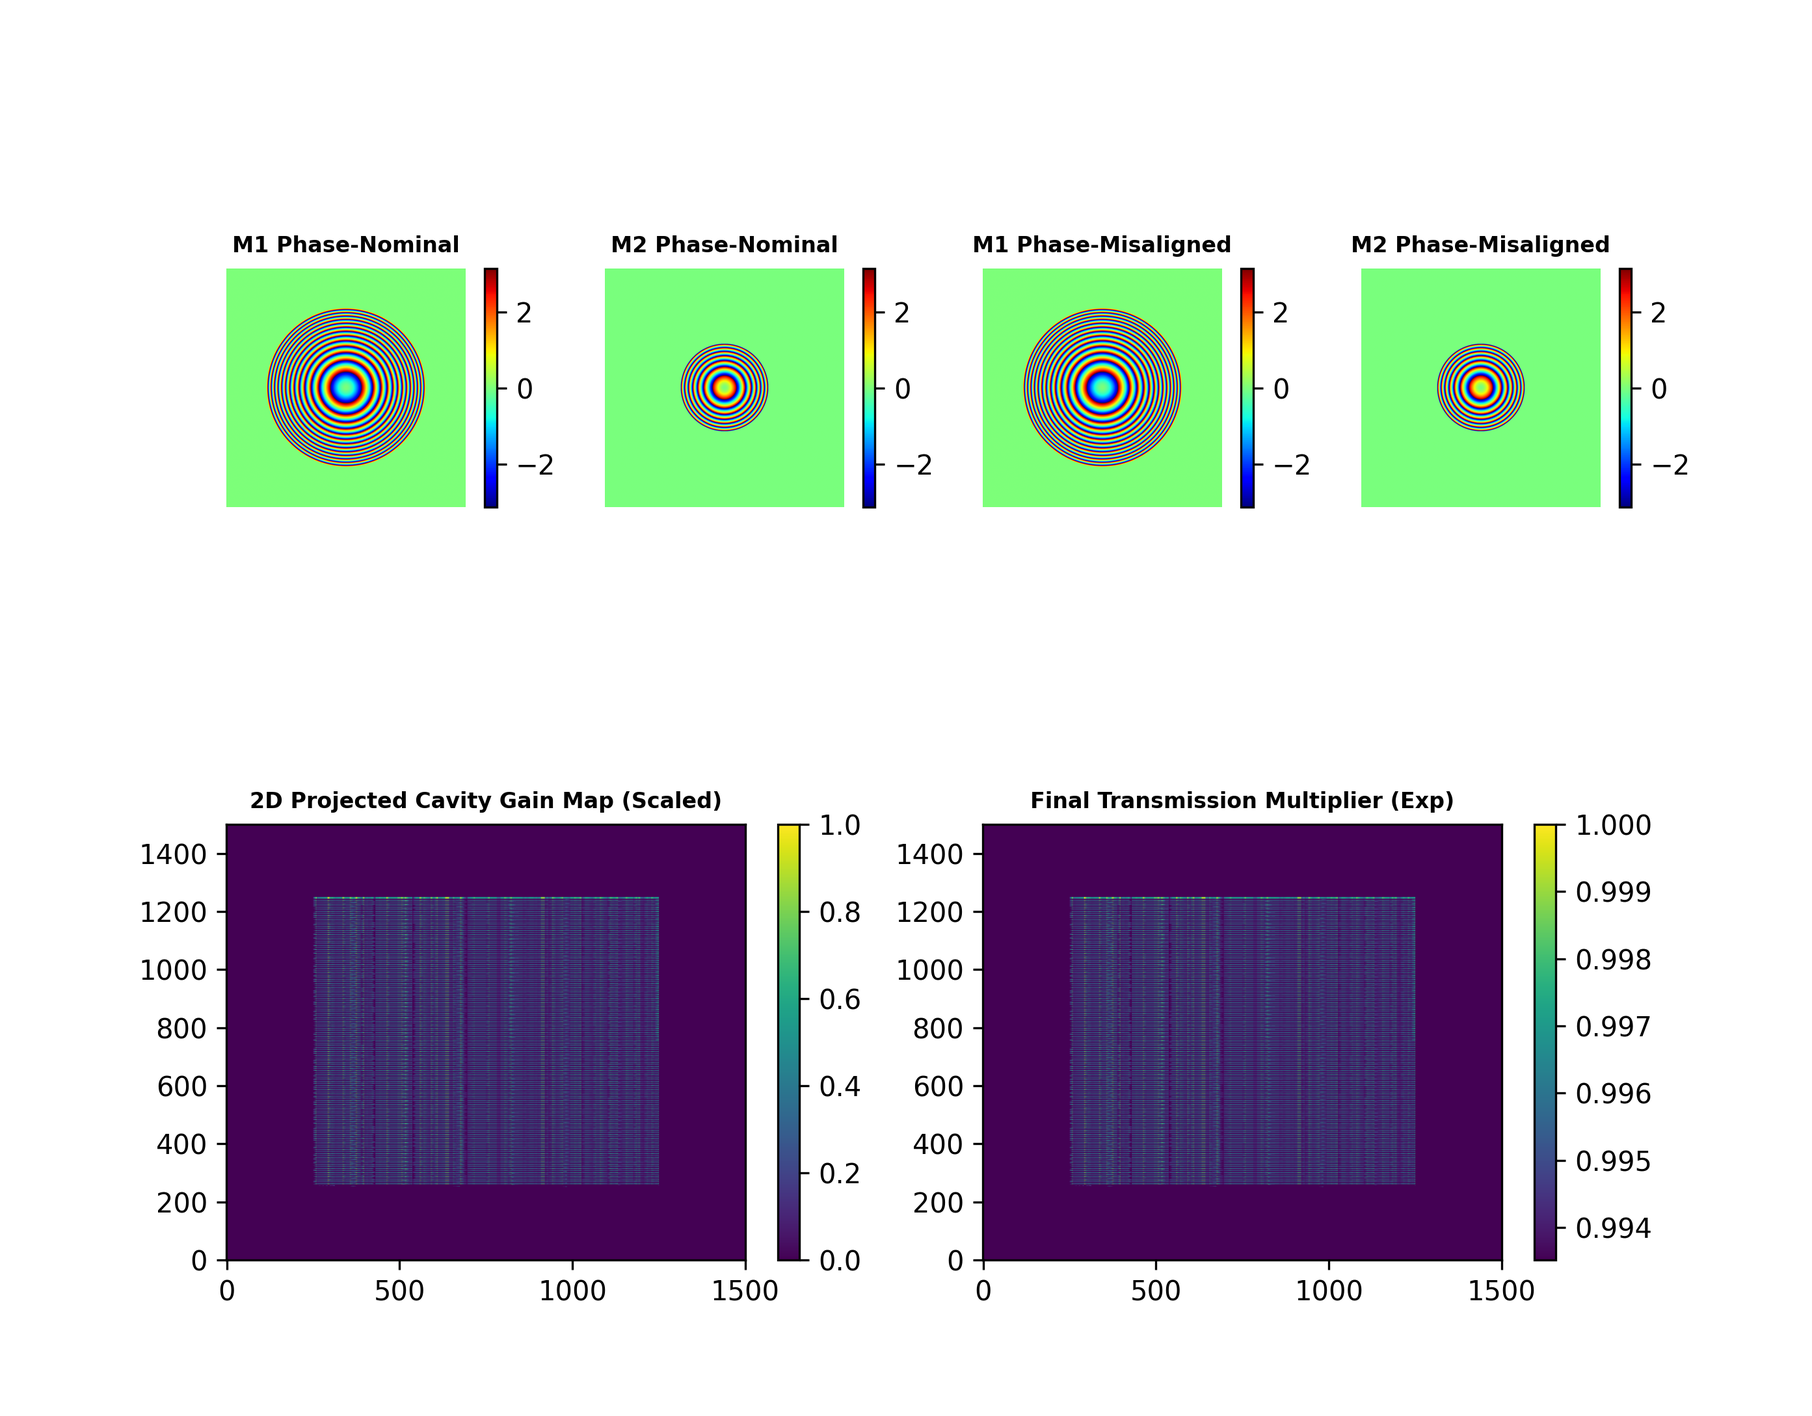
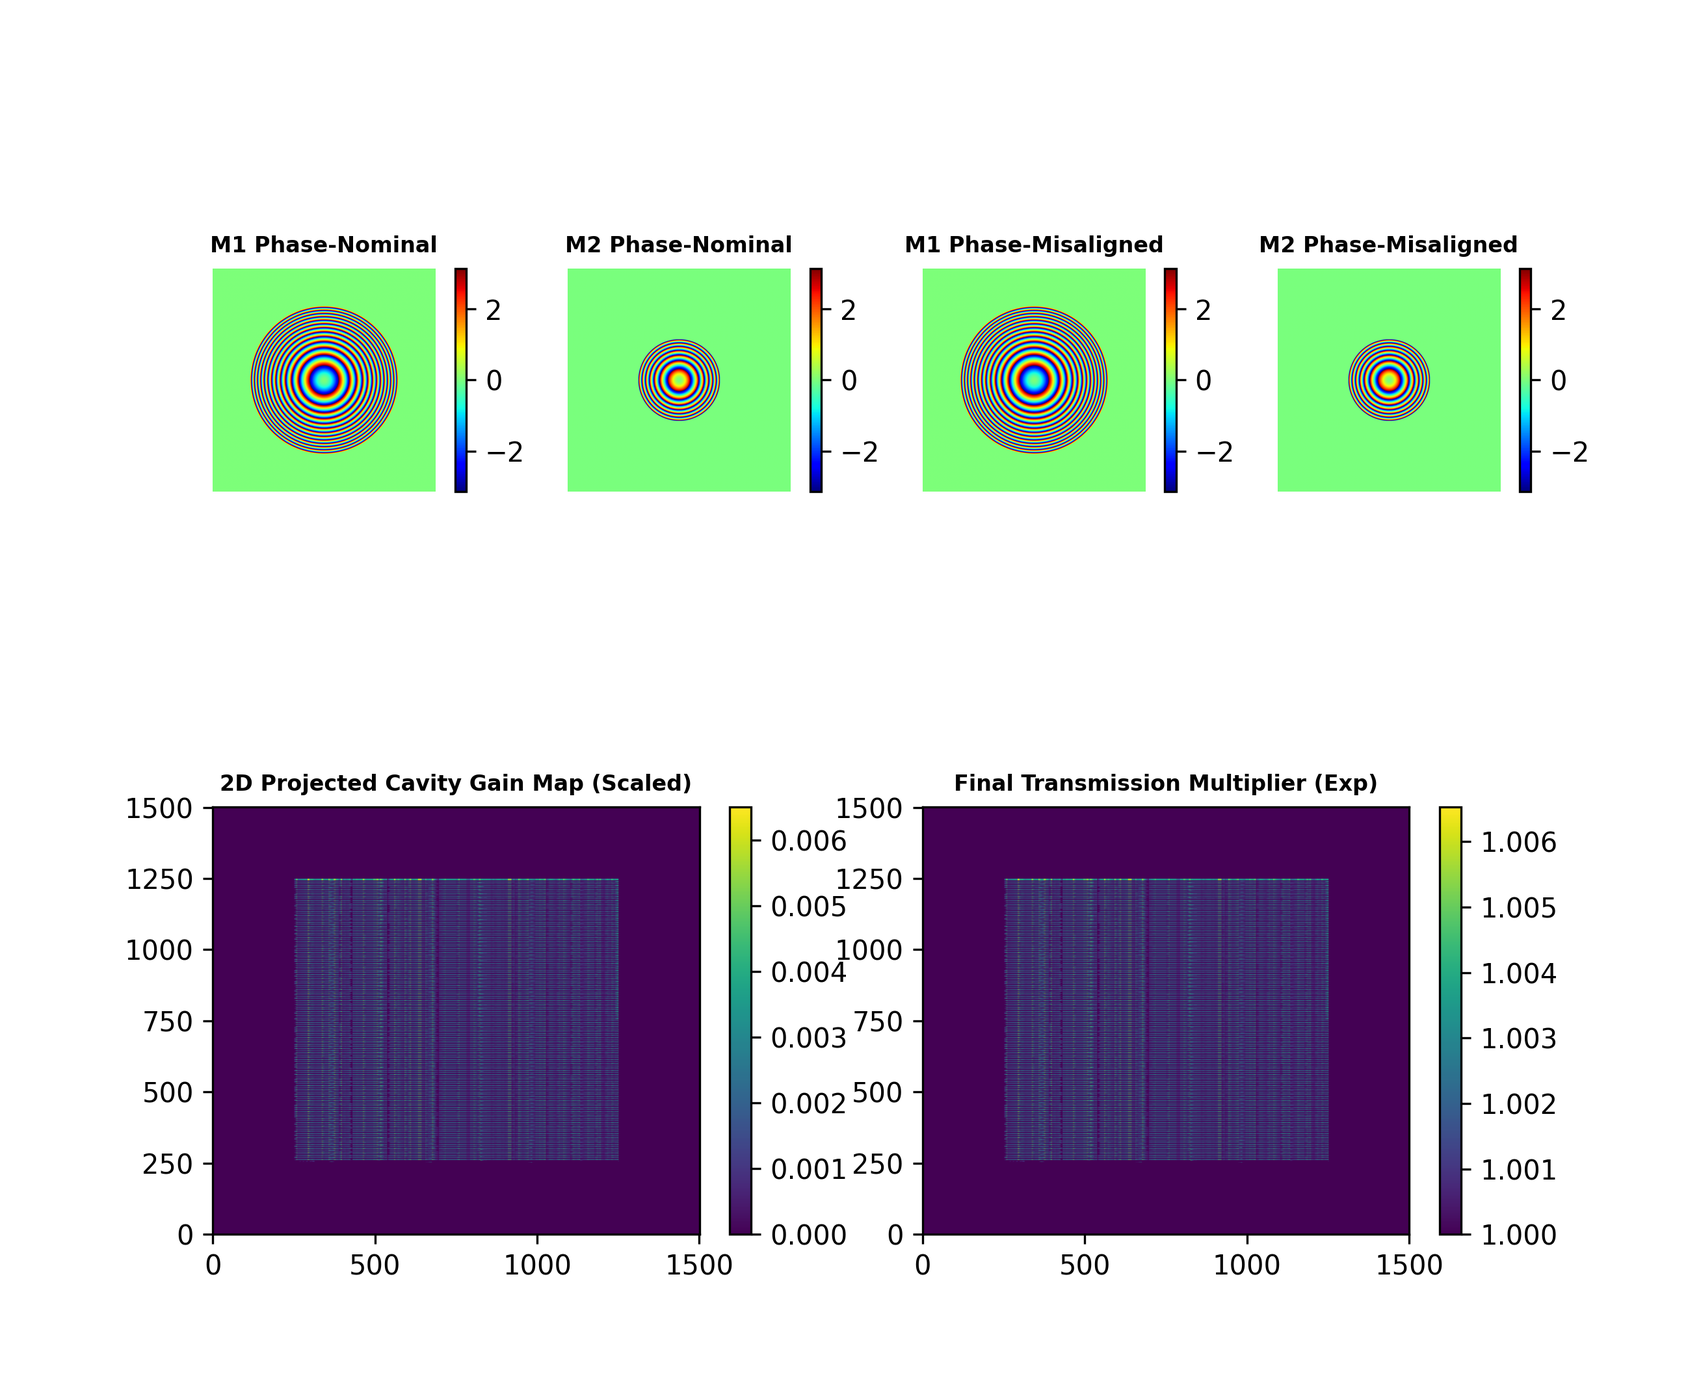
Resolve and optimize every issues.

diff --git a/main_JAX.py b/main_JAX.py
@@ -3,7 +3,7 @@ import sys
 import os
 import time
 os.environ['JAX_ENABLE_X64'] = 'True'
-import numpy as onp
+import numpy as np
 
 try:
     import jax          
@@ -17,11 +17,10 @@ from PyQt5.QtWidgets import (QApplication, QWidget, QLabel, QLineEdit, QPushButt
                              QMessageBox, QTabWidget, QFileDialog, QInputDialog, QFormLayout, QComboBox) 
 from PyQt5.QtCore import Qt, QTimer 
 from matplotlib.backends.backend_qt5agg import FigureCanvasQTAgg as FigureCanvas 
-from matplotlib.figure import Figure 
-from matplotlib.gridspec import GridSpec 
+from matplotlib.figure import Figure
 
 from gain_processor import load_and_process_gain
-from physics_engine import run_iteration_jax, calc_far_field_jax
+from physics_engine import run_iteration_jax, calc_far_field_jax, create_circle_jax, create_mirror_jax
 import viz_utils
 
 class FoxLiGUIJAX(QWidget):
@@ -275,7 +274,7 @@ class FoxLiGUIJAX(QWidget):
         self.max_iter = int(self.inputs['max_iter'].text())
         self.k01 = float(self.inputs['k01'].text())
         self.k02 = float(self.inputs['k02'].text())
-        self.k = 2 * onp.pi / self.wav
+        self.k = 2 * np.pi / self.wav
 
         self.x1 = float(self.inputs['x1'].text()) * 1e-6      
         self.y1 = float(self.inputs['y1'].text()) * 1e-6      
@@ -298,27 +297,22 @@ class FoxLiGUIJAX(QWidget):
         self.fy = fy_coords / self.p
         
         self.k_sq = self.k**2
-        self.four_pi_sq = 4 * onp.pi**2
+        self.four_pi_sq = 4 * np.pi**2
         self.f_sq_sum = self.fx**2 + self.fy**2
-        
-        r2_base = self.x**2 + self.y**2
-        self.circ0 = jnp.where(r2_base < (self.N * self.p / 2)**2, 1.0, 0.0)
-        self.circ1 = jnp.where(r2_base < (self.D1 / 2)**2, 1.0, 0.0)
-        self.circ2 = jnp.where(r2_base < (self.D2 / 2)**2, 1.0, 0.0)
-        
-        r21 = (self.x - self.x1)**2 + (self.y - self.y1)**2
-        sag1_phase = -2j * self.k * r21 / (self.R1 + jnp.sqrt(self.R1**2 - (1 + self.k01) * r21))
-        tilt1 = jnp.exp(1j * self.k * (self.x * self.theta_x1 + self.y * self.theta_y1))
-        self.Mirror1 = jnp.exp(sag1_phase) * tilt1 * self.circ1
-        
-        r22 = (self.x - self.x2)**2 + (self.y - self.y2)**2
-        sag2_phase = 2j * self.k * r22 / (self.R2 + jnp.sqrt(self.R2**2 - (1 + self.k02) * r22))
-        tilt2 = jnp.exp(1j * self.k * (self.x * self.theta_x2 + self.y * self.theta_y2))
-        self.Mirror2 = jnp.exp(sag2_phase) * tilt2 * self.circ2
+
+        self.circ0 = create_circle_jax(x_grid=self.x, y_grid=self.y, diameter=(self.N*self.p))
+        self.circ1, self.Mirror1 = create_mirror_jax(x_grid=self.x, y_grid=self.y, wav_num=self.k,
+                                                     diameter=self.D1, ROC=self.R1, kappa=self.k01,
+                                                     xoff=self.x1, yoff=self.y1, angx=self.theta_x1, angy=self.theta_y1,
+                                                     left_or_right_mirror="left", return_circ=True)
+        self.circ2, self.Mirror2 = create_mirror_jax(x_grid=self.x, y_grid=self.y, wav_num=self.k,
+                                                     diameter=self.D2, ROC=self.R2, kappa=self.k02,
+                                                     xoff=self.x2, yoff=self.y2, angx=self.theta_x2, angy=self.theta_y2,
+                                                     left_or_right_mirror="right", return_circ=True)
         
         if self.gain_combo.currentText() == "Load from File..." and self.gain_filepath:
             time_start = time.perf_counter()
-            gain_prof, raw_prof = load_and_process_gain(self.gain_filepath, onp.array(self.x), onp.array(self.y))
+            gain_prof, raw_prof = load_and_process_gain(self.gain_filepath, np.array(self.x), np.array(self.y))
             time_end = time.perf_counter()
             print(f"Time duration for processing gain: {time_end-time_start} seconds")
             self.exp_gain_profile = jnp.array(gain_prof)
@@ -329,7 +323,7 @@ class FoxLiGUIJAX(QWidget):
 
         key = jax.random.PRNGKey(42)
         key_amp, key_phase = jax.random.split(key)
-        self.E0 = jax.random.uniform(key_amp, (self.N, self.N), dtype=jnp.float64) * jnp.exp(1j * 2 * onp.pi * jax.random.uniform(key_phase, (self.N, self.N), dtype=jnp.float64))
+        self.E0 = jax.random.uniform(key_amp, (self.N, self.N), dtype=jnp.float64) * jnp.exp(1j * 2 * np.pi * jax.random.uniform(key_phase, (self.N, self.N), dtype=jnp.float64))
         self.iter = 0
 
     def visualize_setup(self):
@@ -339,16 +333,21 @@ class FoxLiGUIJAX(QWidget):
             QMessageBox.critical(self, "Input Error", f"Error reading parameters: {e}")
             return
         
-        r2_nom = self.x**2 + self.y**2
-        sag1_nom = -2j * self.k * r2_nom / (self.R1 + jnp.sqrt(self.R1**2 - (1 + self.k01) * r2_nom))
-        Mirror1_nominal = jnp.exp(sag1_nom) * self.circ1
-        sag2_nom = 2j * self.k * r2_nom / (self.R2 + jnp.sqrt(self.R2**2 - (1 + self.k02) * r2_nom))
-        Mirror2_nominal = jnp.exp(sag2_nom) * self.circ2
+        Mirror1_nominal = create_mirror_jax(x_grid=self.x, y_grid=self.y, wav_num=self.k,
+                                            diameter=self.D1, ROC=self.R1, kappa=self.k01, 
+                                            xoff=0.0, yoff=0.0, angx=0.0, angy=0.0,
+                                            left_or_right_mirror="left",
+                                            return_circ=False)
+        Mirror2_nominal = create_mirror_jax(x_grid=self.x, y_grid=self.y, wav_num=self.k,
+                                            diameter=self.D2, ROC=self.R2, kappa=self.k02, 
+                                            xoff=0.0, yoff=0.0, angx=0.0, angy=0.0,
+                                            left_or_right_mirror="right",
+                                            return_circ=False)
         
-        viz_utils.plot_setup(self.visual_figure, onp.array(Mirror1_nominal), onp.array(Mirror2_nominal), 
-                             onp.array(self.Mirror1), onp.array(self.Mirror2), 
-                             onp.array(self.circ1), onp.array(self.circ2), 
-                             self.raw_gain_profile, onp.array(self.exp_gain_profile))
+        viz_utils.plot_setup(self.visual_figure, np.array(Mirror1_nominal), np.array(Mirror2_nominal), 
+                             np.array(self.Mirror1), np.array(self.Mirror2), 
+                             np.array(self.circ1), np.array(self.circ2), 
+                             self.raw_gain_profile, np.array(self.exp_gain_profile))
         
         self.visual_canvas.draw()
         self.tabs.setCurrentWidget(self.tab_visual)
@@ -370,7 +369,7 @@ class FoxLiGUIJAX(QWidget):
 
             key = jax.random.PRNGKey(42)
             key_amp, key_phase = jax.random.split(key)
-            self.E0 = jax.random.uniform(key_amp, (self.N, self.N), dtype=jnp.float64) * jnp.exp(1j * 2 * onp.pi * jax.random.uniform(key_phase, (self.N, self.N), dtype=jnp.float64))
+            self.E0 = jax.random.uniform(key_amp, (self.N, self.N), dtype=jnp.float64) * jnp.exp(1j * 2 * np.pi * jax.random.uniform(key_phase, (self.N, self.N), dtype=jnp.float64))
             self.iter = 0
             
             self.simulation_running = True
@@ -393,7 +392,7 @@ class FoxLiGUIJAX(QWidget):
         
         self.last_E_out = E_out_jax 
         
-        viz_utils.plot_iteration(self.sim_figure, onp.array(intensity_jax), onp.array(phase_jax), self.iter + 1)
+        viz_utils.plot_iteration(self.sim_figure, np.array(intensity_jax), np.array(phase_jax), self.iter + 1)
         self.sim_canvas.draw()
         
         self.iter += 1
@@ -403,13 +402,13 @@ class FoxLiGUIJAX(QWidget):
             print(f"Total time for {self.max_iter} iterations (including GUI rendering & delays): {sim_end_time - self.sim_start_time} seconds")
             self.simulation_running = False
             self.simulation_timer.stop()
-            self.last_E_out = onp.array(self.last_E_out)
+            self.last_E_out = np.array(self.last_E_out)
             QMessageBox.information(self, "Simulation Complete", f"{self.max_iter} iterations completed!")
             self.plot_results()
 
     def plot_results(self):
-        intensity = onp.abs(self.last_E_out)**2 * onp.array(self.circ0) * (1 - onp.array(self.circ2))
-        phase = onp.angle(self.last_E_out) * onp.array(self.circ0) * (1 - onp.array(self.circ2))
+        intensity = np.abs(self.last_E_out)**2 #* np.array(self.circ0) * (1 - np.array(self.circ2))
+        phase = np.angle(self.last_E_out) * np.array(self.circ0) * (1 - np.array(self.circ2))
         
         viz_utils.plot_final_results(self.result_figure, intensity, phase, self.N // 2)
         
@@ -424,14 +423,14 @@ class FoxLiGUIJAX(QWidget):
         M2, Dr, Drho, Dr_gauss, Drho_gauss, I_out, I_far, I_gauss, I_far_gauss = calc_far_field_jax(
             jnp.array(self.last_E_out), self.x, self.y, self.fx, self.fy, self.D1, self.D2, self.circ1, self.N)
 
-        viz_utils.plot_far_field(self.far_field_figure, onp.array(I_out), onp.array(I_gauss), onp.array(I_far), onp.array(I_far_gauss), self.N)
+        viz_utils.plot_far_field(self.far_field_figure, np.array(I_out), np.array(I_gauss), np.array(I_far), np.array(I_far_gauss), self.N)
         self.far_field_canvas.draw()
         
-        self.m2_label.setText(f"{onp.array(M2):.4f}")
-        self.dr_label.setText(f"{onp.array(Dr):.4e}")
-        self.drho_label.setText(f"{onp.array(Drho):.4f}")
-        self.dr_gauss_label.setText(f"{onp.array(Dr_gauss):.4e}")
-        self.drho_gauss_label.setText(f"{onp.array(Drho_gauss):.4f}")
+        self.m2_label.setText(f"{np.array(M2):.4f}")
+        self.dr_label.setText(f"{np.array(Dr):.4e}")
+        self.drho_label.setText(f"{np.array(Drho):.4f}")
+        self.dr_gauss_label.setText(f"{np.array(Dr_gauss):.4e}")
+        self.drho_gauss_label.setText(f"{np.array(Drho_gauss):.4f}")
 
         self.tabs.setCurrentWidget(self.tab_far_field)
 

diff --git a/main_numpy.py b/main_numpy.py
@@ -11,7 +11,7 @@ from matplotlib.backends.backend_qt5agg import FigureCanvasQTAgg as FigureCanvas
 from matplotlib.figure import Figure 
 
 from gain_processor import load_and_process_gain
-from physics_engine import run_iteration_np, calc_far_field_np
+from physics_engine import run_iteration_np, calc_far_field_np, create_circle, create_mirror
 import viz_utils
 
 class FoxLiGUI(QWidget):
@@ -288,21 +288,16 @@ class FoxLiGUI(QWidget):
         self.k_sq = self.k**2
         self.four_pi_sq = 4 * np.pi**2
         self.f_sq_sum = self.fx**2 + self.fy**2
-        
-        r2_base = self.x**2 + self.y**2
-        self.circ0 = np.where(r2_base < (self.N * self.p / 2)**2, 1.0, 0.0)
-        self.circ1 = np.where(r2_base < (self.D1 / 2)**2, 1.0, 0.0)
-        self.circ2 = np.where(r2_base < (self.D2 / 2)**2, 1.0, 0.0)
-        
-        r21 = (self.x - self.x1)**2 + (self.y - self.y1)**2
-        sag1_phase = -2j * self.k * r21 / (self.R1 + np.sqrt(self.R1**2 - (1 + self.k01) * r21))
-        tilt1 = np.exp(1j * self.k * (self.x * self.theta_x1 + self.y * self.theta_y1))
-        self.Mirror1 = np.exp(sag1_phase) * tilt1 * self.circ1
-        
-        r22 = (self.x - self.x2)**2 + (self.y - self.y2)**2
-        sag2_phase = 2j * self.k * r22 / (self.R2 + np.sqrt(self.R2**2 - (1 + self.k02) * r22))
-        tilt2 = np.exp(1j * self.k * (self.x * self.theta_x2 + self.y * self.theta_y2))
-        self.Mirror2 = np.exp(sag2_phase) * tilt2 * self.circ2
+
+        self.circ0 = create_circle(x_grid=self.x, y_grid=self.y, diameter=(self.N*self.p))
+        self.circ1, self.Mirror1 = create_mirror(x_grid=self.x, y_grid=self.y, wav_num=self.k,
+                                                 diameter=self.D1, ROC=self.R1, kappa=self.k01,
+                                                 xoff=self.x1, yoff=self.y1, angx=self.theta_x1, angy=self.theta_y1,
+                                                 left_or_right_mirror="left", return_circ=True)
+        self.circ2, self.Mirror2 = create_mirror(x_grid=self.x, y_grid=self.y, wav_num=self.k,
+                                                 diameter=self.D2, ROC=self.R2, kappa=self.k02,
+                                                 xoff=self.x2, yoff=self.y2, angx=self.theta_x2, angy=self.theta_y2,
+                                                 left_or_right_mirror="right", return_circ=True)
         
         if self.gain_combo.currentText() == "Load from File..." and self.gain_filepath:
             time_start = time.perf_counter()
@@ -325,11 +320,16 @@ class FoxLiGUI(QWidget):
             QMessageBox.critical(self, "Input Error", f"Error reading parameters: {e}")
             return
         
-        r2_nom = self.x**2 + self.y**2
-        sag1_nom = -2j * self.k * r2_nom / (self.R1 + np.sqrt(self.R1**2 - (1 + self.k01) * r2_nom))
-        Mirror1_nominal = np.exp(sag1_nom) * self.circ1
-        sag2_nom = 2j * self.k * r2_nom / (self.R2 + np.sqrt(self.R2**2 - (1 + self.k02) * r2_nom))
-        Mirror2_nominal = np.exp(sag2_nom) * self.circ2
+        Mirror1_nominal = create_mirror(x_grid=self.x, y_grid=self.y, wav_num=self.k,
+                                        diameter=self.D1, ROC=self.R1, kappa=self.k01, 
+                                        xoff=0.0, yoff=0.0, angx=0.0, angy=0.0,
+                                        left_or_right_mirror="left",
+                                        return_circ=False)
+        Mirror2_nominal = create_mirror(x_grid=self.x, y_grid=self.y, wav_num=self.k,
+                                        diameter=self.D2, ROC=self.R2, kappa=self.k02, 
+                                        xoff=0.0, yoff=0.0, angx=0.0, angy=0.0,
+                                        left_or_right_mirror="right",
+                                        return_circ=False)
         
         viz_utils.plot_setup(self.visual_figure, Mirror1_nominal, Mirror2_nominal, 
                              self.Mirror1, self.Mirror2, 
@@ -381,7 +381,7 @@ class FoxLiGUI(QWidget):
             self.plot_results()
 
     def plot_results(self):
-        intensity = np.abs(self.last_E_out)**2 * self.circ0 * (1 - self.circ2)
+        intensity = np.abs(self.last_E_out)**2 #* self.circ0 * (1 - self.circ2)
         phase = np.angle(self.last_E_out) * self.circ0 * (1 - self.circ2)
         
         viz_utils.plot_final_results(self.result_figure, intensity, phase, self.N // 2)

diff --git a/physics_engine.py b/physics_engine.py
@@ -4,6 +4,35 @@ from numpy.fft import fft2, ifft2, fftshift, ifftshift
 
 
 # --- NumPy Physics Functions---
+def create_circle(x_grid, y_grid, diameter, xoff=0.0, yoff=0.0):
+    r2 = (x_grid-xoff)**2 + (y_grid-yoff)**2
+    circ = np.where(r2 < (diameter/2)**2, 1.0, 0.0)
+    return circ
+        
+def create_mirror(x_grid, y_grid, wav_num, 
+                  diameter, ROC, kappa, 
+                  xoff, yoff, angx, angy, 
+                  left_or_right_mirror:str, 
+                  return_circ:bool=False):
+    circ = create_circle(x_grid, y_grid, diameter, xoff, yoff)
+            
+    if left_or_right_mirror.lower() == "left": 
+        factor = -1
+    elif left_or_right_mirror.lower() == "right": 
+        factor = +1
+    else: 
+        print(f"Wrong argument for left_or_right_mirror: {left_or_right_mirror}")
+
+    r2 = (x_grid-xoff)**2 + (y_grid-yoff)**2
+    sag_phase = factor * 2j * wav_num * r2 / (ROC + np.sqrt(ROC**2 - (1+kappa) * r2))
+    tilt = np.exp(1j* wav_num * (x_grid*angx + y_grid*angy))
+    mirror = np.exp(sag_phase) * tilt * circ
+
+    if return_circ: 
+        return circ, mirror
+    else:
+        return mirror
+            
 def angspec_prop_np(u, dz, k_sq, four_pi_sq, f_sq_sum, N, p, wav):
     alpha = np.sqrt(k_sq - four_pi_sq * f_sq_sum) 
     f0 = (1/wav) * 1/np.sqrt(1 + (2*dz/(N*p))**2)
@@ -23,7 +52,7 @@ def run_iteration_np(E0, Mirror1, Mirror2, gain_profile, z, circ2, circ0, k_sq, 
     E0 = angspec_prop_np(E0, z, k_sq, four_pi_sq, f_sq_sum, N, p, wav)
     E0 = E0 * gain_profile
     
-    intensity = np.abs(E_out)**2 * circ0 * (1 - circ2)
+    intensity = np.abs(E_out)**2 #* circ0 #* (1 - circ2)
     phase = np.angle(E_out) * circ0 * (1 - circ2)
     
     return E0, E_out, intensity, phase
@@ -69,6 +98,35 @@ try:
     from jax.numpy.fft import fftshift as jfftshift
     from jax.numpy.fft import ifftshift as jifftshift
 
+    def create_circle_jax(x_grid, y_grid, diameter, xoff=0.0, yoff=0.0):
+        r2 = (x_grid-xoff)**2 + (y_grid-yoff)**2
+        circ = jnp.where(r2 < (diameter/2)**2, 1.0, 0.0)
+        return circ
+            
+    def create_mirror_jax(x_grid, y_grid, wav_num, 
+                          diameter, ROC, kappa, 
+                          xoff, yoff, angx, angy, 
+                          left_or_right_mirror:str, 
+                          return_circ:bool=False):
+        circ = create_circle_jax(x_grid, y_grid, diameter, xoff, yoff)
+                
+        if left_or_right_mirror.lower() == "left": 
+            factor = -1
+        elif left_or_right_mirror.lower() == "right": 
+            factor = +1
+        else: 
+            print(f"Wrong argument for left_or_right_mirror: {left_or_right_mirror}")
+
+        r2 = (x_grid-xoff)**2 + (y_grid-yoff)**2
+        sag_phase = factor * 2j * wav_num * r2 / (ROC + jnp.sqrt(ROC**2 - (1+kappa) * r2))
+        tilt = jnp.exp(1j* wav_num * (x_grid*angx + y_grid*angy))
+        mirror = jnp.exp(sag_phase) * tilt * circ
+
+        if return_circ: 
+            return circ, mirror
+        else:
+            return mirror
+
 
     def angspec_prop_jax(u, dz, k_sq, four_pi_sq, f_sq_sum, N, p, wav):
         alpha = jnp.sqrt(k_sq - four_pi_sq * f_sq_sum) 
@@ -89,7 +147,7 @@ try:
         E0 = angspec_prop_jax(E0, z, k_sq, four_pi_sq, f_sq_sum, N, p, wav)
         E0 = E0 * gain_profile
         
-        intensity = jnp.abs(E_out)**2 * circ0 * (1 - circ2)
+        intensity = jnp.abs(E_out)**2 #* circ0 * (1 - circ2)
         phase = jnp.angle(E_out) * circ0 * (1 - circ2)
         
         return E0, E_out, intensity, phase

diff --git a/viz_utils.py b/viz_utils.py
@@ -28,7 +28,8 @@ def plot_setup(fig, M1_nom, M2_nom, M1_mis, M2_mis, circ1, circ2, raw_gain, exp_
     plot_phase_map(axs[3], M2_mis, "M2 Phase-Misaligned", circ2, fig)
 
     if raw_gain is not None:
-        im4 = ax_gain_raw.imshow(raw_gain/np.max(raw_gain), cmap='viridis', origin='lower', aspect='auto')
+        #im4 = ax_gain_raw.imshow(raw_gain/np.max(raw_gain), cmap='viridis', origin='lower', aspect='auto')
+        im4 = ax_gain_raw.imshow(raw_gain, cmap='viridis', origin='lower', aspect='auto')
         ax_gain_raw.set_title("2D Projected Cavity Gain Map (Scaled)", fontsize=8, fontweight='bold')
         fig.colorbar(im4, ax=ax_gain_raw)
     else:
@@ -36,7 +37,8 @@ def plot_setup(fig, M1_nom, M2_nom, M1_mis, M2_mis, circ1, circ2, raw_gain, exp_
         ax_gain_raw.set_title("2D Projected Cavity Gain Map", fontsize=8, fontweight='bold')
 
     if exp_gain is not None:
-        im5 = ax_gain_interp.imshow(exp_gain/np.max(exp_gain), cmap='viridis', origin='lower', aspect='auto')
+        #im5 = ax_gain_interp.imshow(exp_gain/np.max(exp_gain), cmap='viridis', origin='lower', aspect='auto')
+        im5 = ax_gain_interp.imshow(exp_gain, cmap='viridis', origin='lower', aspect='auto')
         ax_gain_interp.set_title("Final Transmission Multiplier (Exp)", fontsize=8, fontweight='bold')
         fig.colorbar(im5, ax=ax_gain_interp)
     else:
